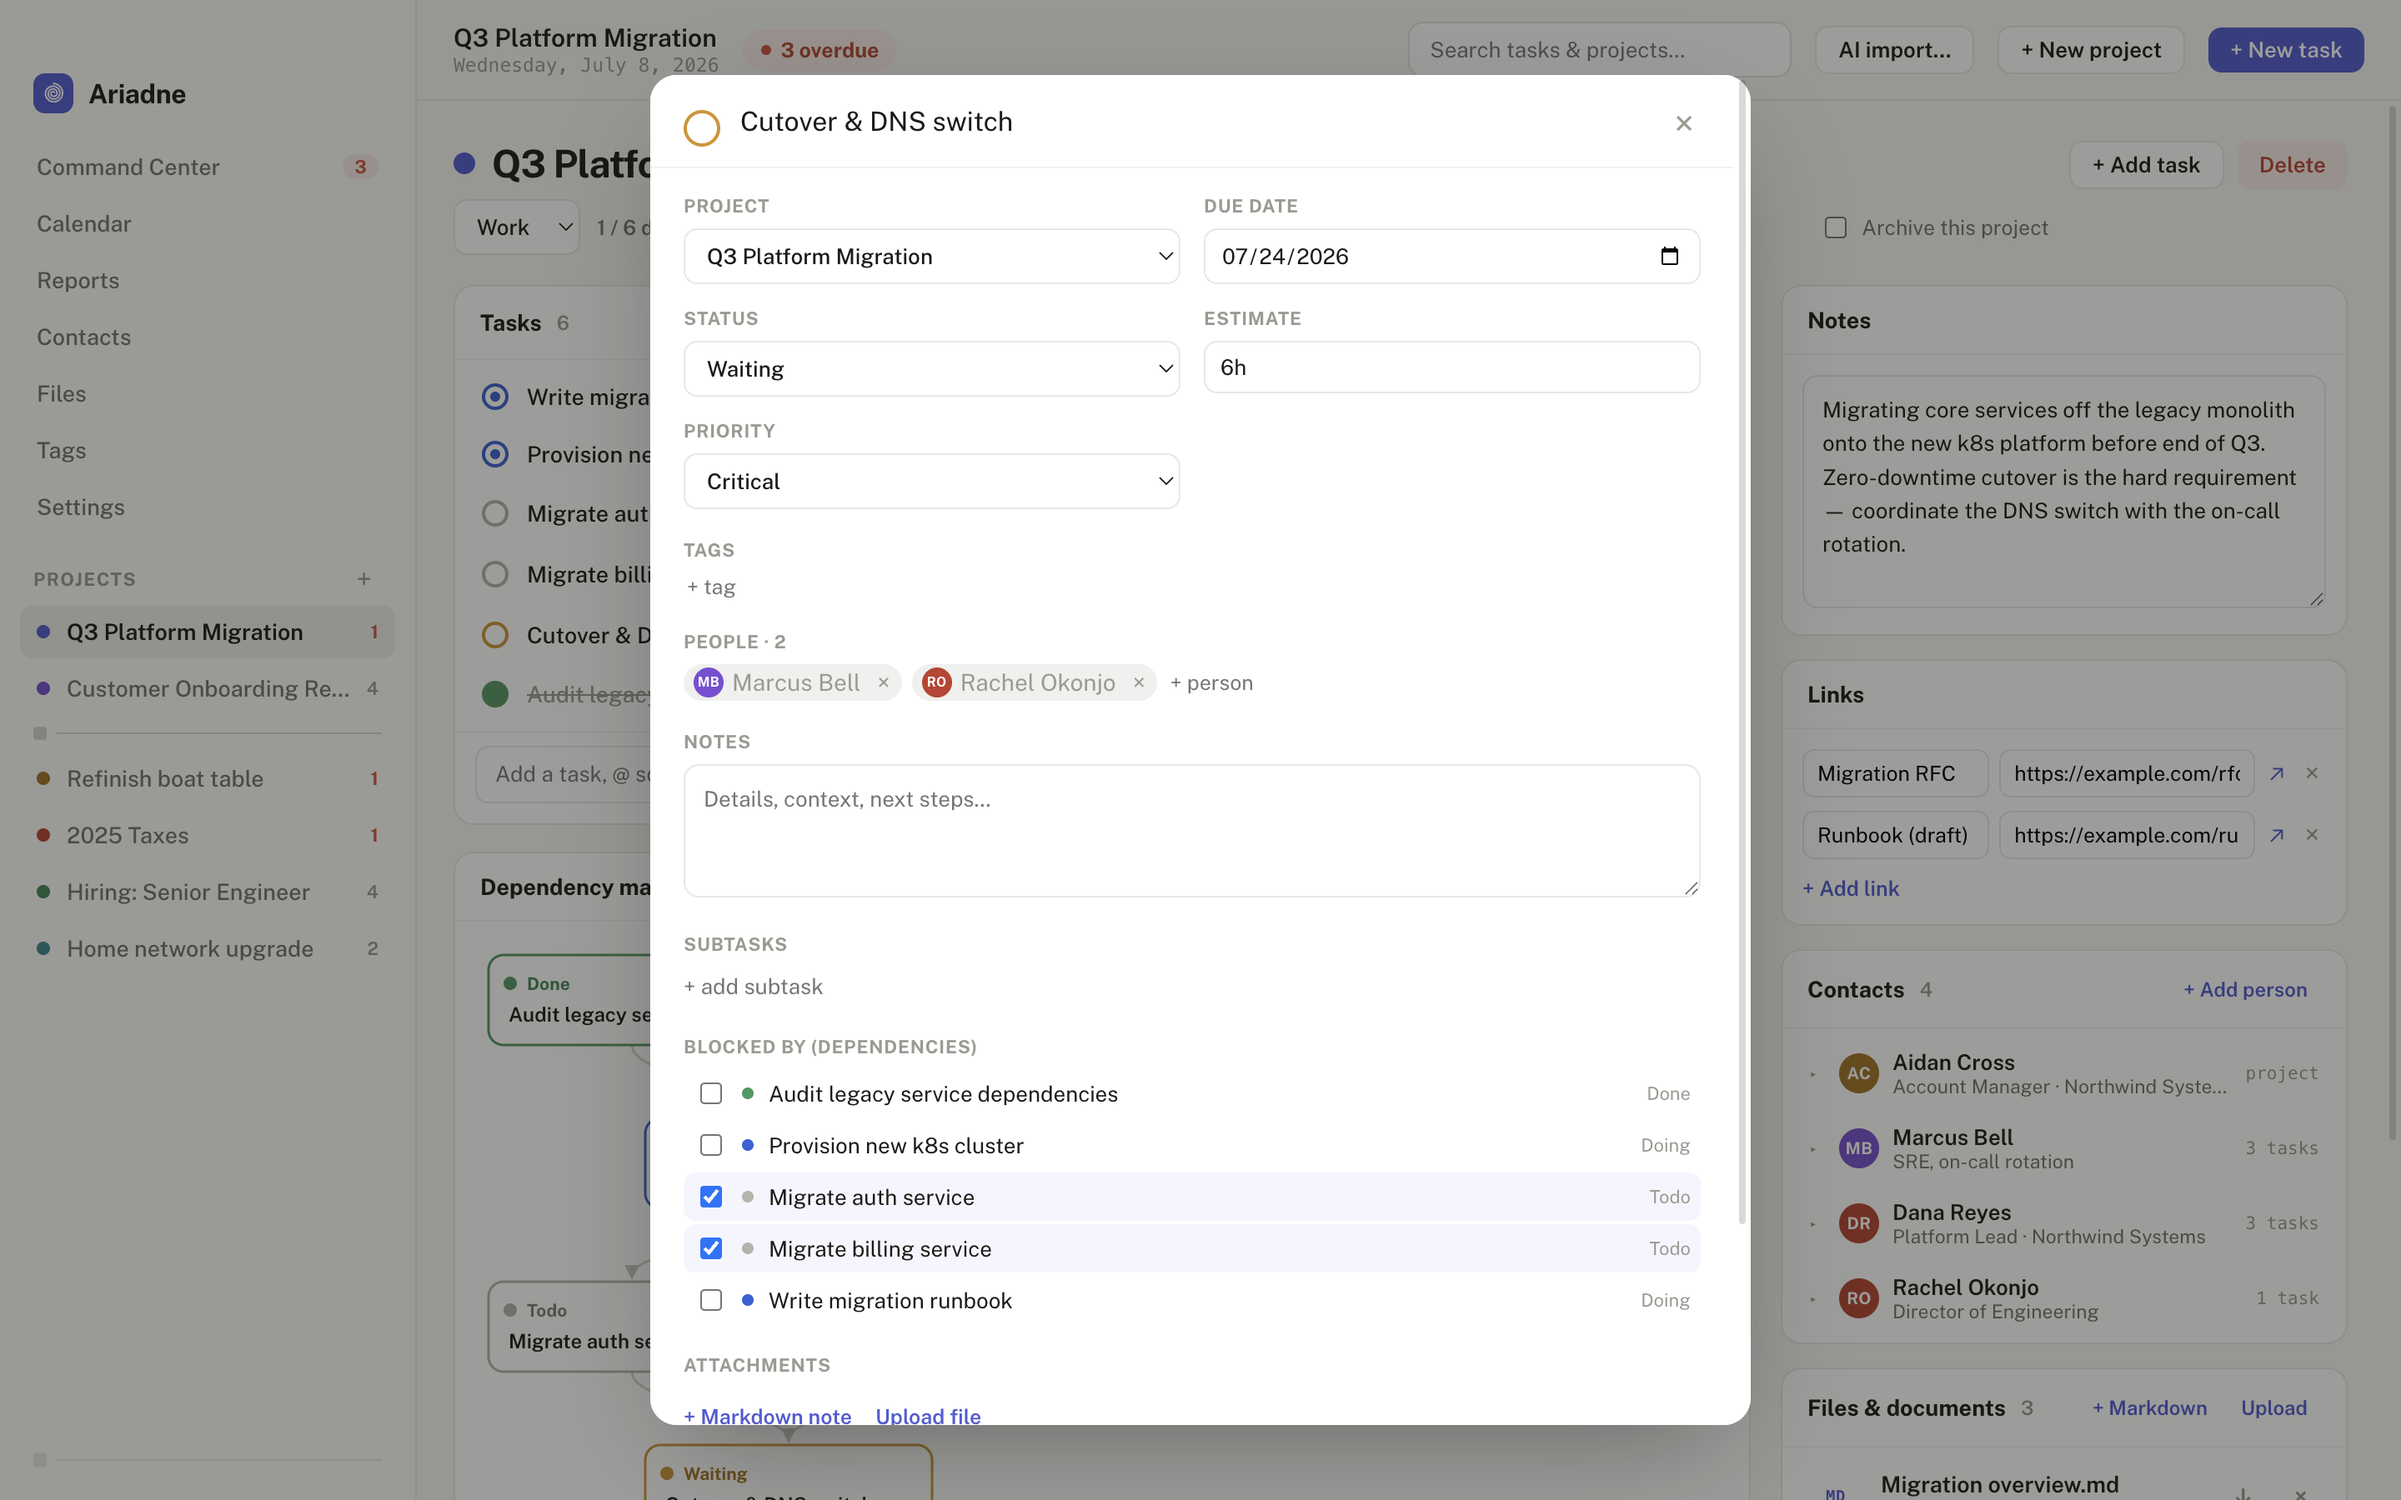
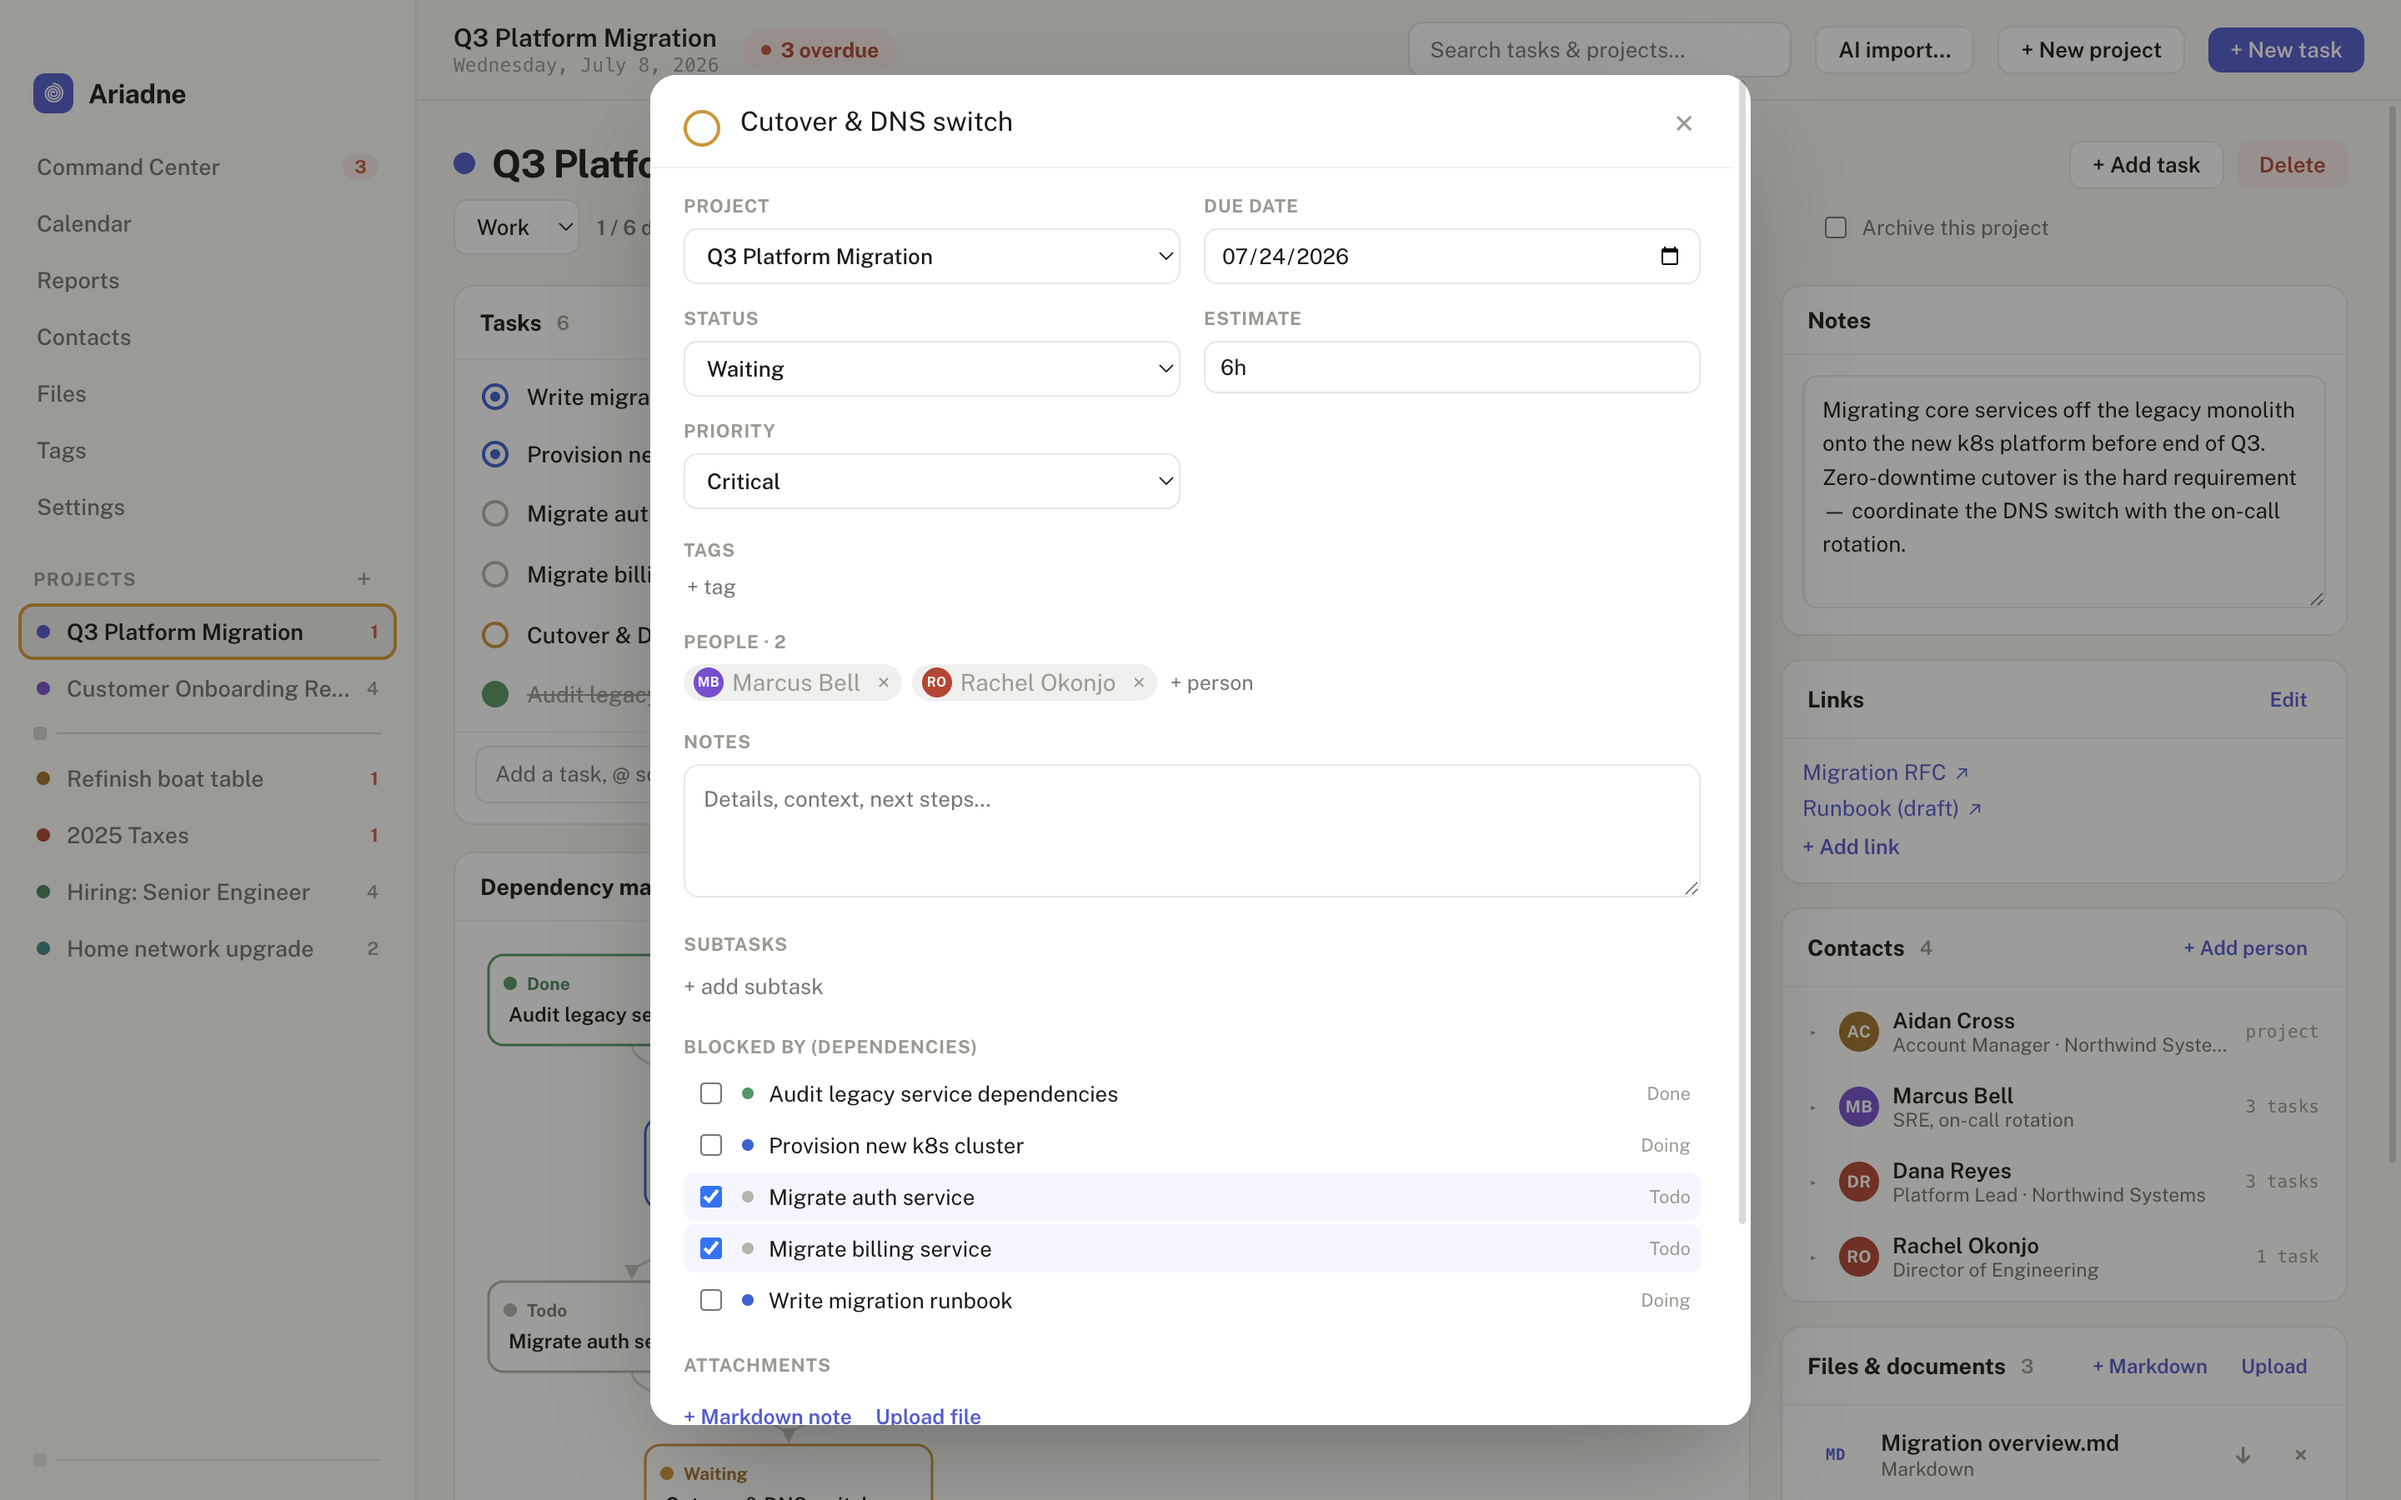
[v2.6.0] Fit and finish: links, map snapping, reschedule counts, contact colours
Changelog, in-app help, version bump and regenerated screenshots for the
four items on this branch (D43-D45).

diff --git a/src/renderer/modals/HelpModal.tsx b/src/renderer/modals/HelpModal.tsx
@@ -169,6 +169,19 @@ function Body({ section, mod }: { section: HelpSection; mod: string }): React.JS
             shortcuts for the “Blocked by” checkboxes in the task editor. Ariadne refuses a link
             that would leave two tasks waiting on each other.
           </p>
+          <p>
+            Boxes you drag <strong>snap into line</strong>: bring one near another box&apos;s row or
+            column and it locks there, with a dashed guide showing what it lined up with; anywhere
+            else it settles onto a fine grid. Hold <strong>Option</strong> (Alt on Windows and
+            Linux) while dragging to place a box exactly where you let go. The organization map on a
+            contact&apos;s page snaps the same way.
+          </p>
+          <h3>Links</h3>
+          <p>
+            A project&apos;s <strong>Links</strong> card shows each link as a link — click it and it
+            opens in your browser. Press <strong>Edit</strong> to change a label or address, add
+            one, or remove one; <strong>Done</strong> puts them back to links.
+          </p>
           <h3>Files &amp; documents</h3>
           <p>
             Each project has a files card. Drag files from Finder or Explorer straight onto its drop
@@ -207,6 +220,14 @@ function Body({ section, mod }: { section: HelpSection; mod: string }): React.JS
             it required beyond a name, so somebody can be captured in three seconds and filled in
             later. The <strong>Contacts</strong> screen lists everyone with what they are carrying;
             sort by open tasks to see who you are leaning on.
+          </p>
+          <h3>Avatar colours</h3>
+          <p>
+            Everyone gets a coloured circle with their initials, picked automatically. To choose one
+            yourself, use the <strong>Colour</strong> row in the contact&apos;s details — the
+            palette, <strong>A</strong> to go back to automatic, or <strong>+</strong> for any
+            colour at all — or just click the big avatar at the top of their page to step through
+            the palette.
           </p>
           <h3>Linking people to work</h3>
           <p>
@@ -264,9 +285,10 @@ function Body({ section, mod }: { section: HelpSection; mod: string }): React.JS
               (which names the culprit).
             </li>
             <li>
-              <strong>Deferred</strong> — tasks whose due date keeps sliding. Ariadne records every
-              push-out, so this report can rank the work you keep putting off and tell you what the
-              churn is costing in days.
+              <strong>Deferred</strong> — tasks whose due date keeps sliding, ranked by how many
+              times they have been rescheduled. It counts how often, not how far: one big push is a
+              decision, but a task moved again every few days usually has a step in front of it
+              nobody has written down. Several changes to a date on the same day count once.
             </li>
             <li>
               <strong>Contact activity</strong> — who you have actually been working with over a

diff --git a/src/renderer/views/ProjectDetail.tsx b/src/renderer/views/ProjectDetail.tsx
@@ -24,8 +24,8 @@ import { ContactsCard } from '../components/ContactsCard';
 import { DependencyMap } from '../components/DependencyMap';
 import { FileRow } from '../components/FileRow';
 import { LinksCard } from '../components/LinkListEditor';
-import { FREE_PLACE_KEY } from '../components/NodeMap';
 import { NlDateField } from '../components/NlDateField';
+import { FREE_PLACE_KEY } from '../components/NodeMap';
 import { Card, Dot } from '../components/primitives';
 import { TagEditor } from '../components/TagEditor';
 import { TaskRow } from '../components/TaskRow';

diff --git a/src/shared/domain/mutate.ts b/src/shared/domain/mutate.ts
@@ -210,7 +210,7 @@ export function updateTask(
       // still the one today's push-out left, a further edit amends that
       // record — and undoes it entirely if the date comes back to where it
       // started the day.
-      if (last !== undefined && last.on === ctx.today && last.to === t.dueDate) {
+      if (last?.on === ctx.today && last.to === t.dueDate) {
         const earlier = history.slice(0, -1);
         if (patch.dueDate !== null && patch.dueDate > last.from) {
           next.deferrals = [...earlier, { ...last, to: patch.dueDate }];

diff --git a/src/renderer/components/LinkListEditor.tsx b/src/renderer/components/LinkListEditor.tsx
@@ -140,7 +140,7 @@ export function LinksCard({
                   </span>
                 </button>
               ) : (
-                <span key={i} className="link-item dead" title={url || undefined}>
+                <span key={i} className="link-item dead" title={link.url.trim() || undefined}>
                   <span className="link-item-label">{label}</span>
                 </span>
               );

diff --git a/src/renderer/components/NodeMap.tsx b/src/renderer/components/NodeMap.tsx
@@ -27,7 +27,7 @@ import { useEffect, useRef, useState } from 'react';
  */
 
 /** The key that turns snapping off mid-drag, as the keyboard labels it. */
-export const FREE_PLACE_KEY = /Mac/.test(navigator.userAgent) ? '⌥' : 'Alt';
+export const FREE_PLACE_KEY = navigator.userAgent.includes('Mac') ? '⌥' : 'Alt';
 
 /** Pointer travel (px) that turns a click on a node into a drag. */
 const DRAG_SLOP = 4;

diff --git a/src/shared/domain/reports.ts b/src/shared/domain/reports.ts
@@ -505,7 +505,7 @@ export function rescheduleEvents(list: readonly Deferral[]): Deferral[] {
   const out: Deferral[] = [];
   for (const d of list) {
     const prev = out[out.length - 1];
-    if (prev !== undefined && prev.on === d.on) out[out.length - 1] = { ...prev, to: d.to };
+    if (prev?.on === d.on) out[out.length - 1] = { ...prev, to: d.to };
     else out.push(d);
   }
   return out;

diff --git a/CHANGELOG.md b/CHANGELOG.md
@@ -1,5 +1,31 @@
 # Changelog
 
+## 2.6.0 — 2026-09-29
+
+- **Project links are links.** A project's Links card now shows each link as
+  something you click to open in your browser, instead of a pair of text
+  boxes. Press **Edit** to change them; **Done** puts them back. An address
+  that could not be opened (a typo, no `https://`) shows as plain text rather
+  than a link that does nothing.
+- **Map boxes snap into line.** On the dependency map and the organization
+  map, a box you drag locks onto the row or column of any box it comes close
+  to, with a dashed guide showing what it lined up with; anywhere else it
+  settles onto a fine grid. Hold Option (Alt on Windows and Linux) to place a
+  box exactly where you let go.
+- **The Deferred report counts how often, not how far.** Clicking a due date
+  forward a month at a time used to record every click as a separate
+  reschedule, so one decision could top the list above the tasks you really
+  do keep putting off. Changes made to a date on the same day now count once
+  — and this applies to your existing history too, so the report is corrected
+  the moment you upgrade. The "days pushed out" figures are gone from the top
+  of the report; how far each task moved is still on its row.
+- **Choose a contact's colour.** The coloured circle behind a person's
+  initials can now be set by hand: pick from the palette in the contact's
+  details, choose any colour at all, or go back to automatic. Clicking the big
+  avatar at the top of their page steps through the palette. Pale colours get
+  dark initials so they stay readable.
+- In-app help covers all four.
+
 ## 2.5.0 — 2026-09-04
 
 - **Tag a task while you are typing it.** Type `#` in a task title — the
